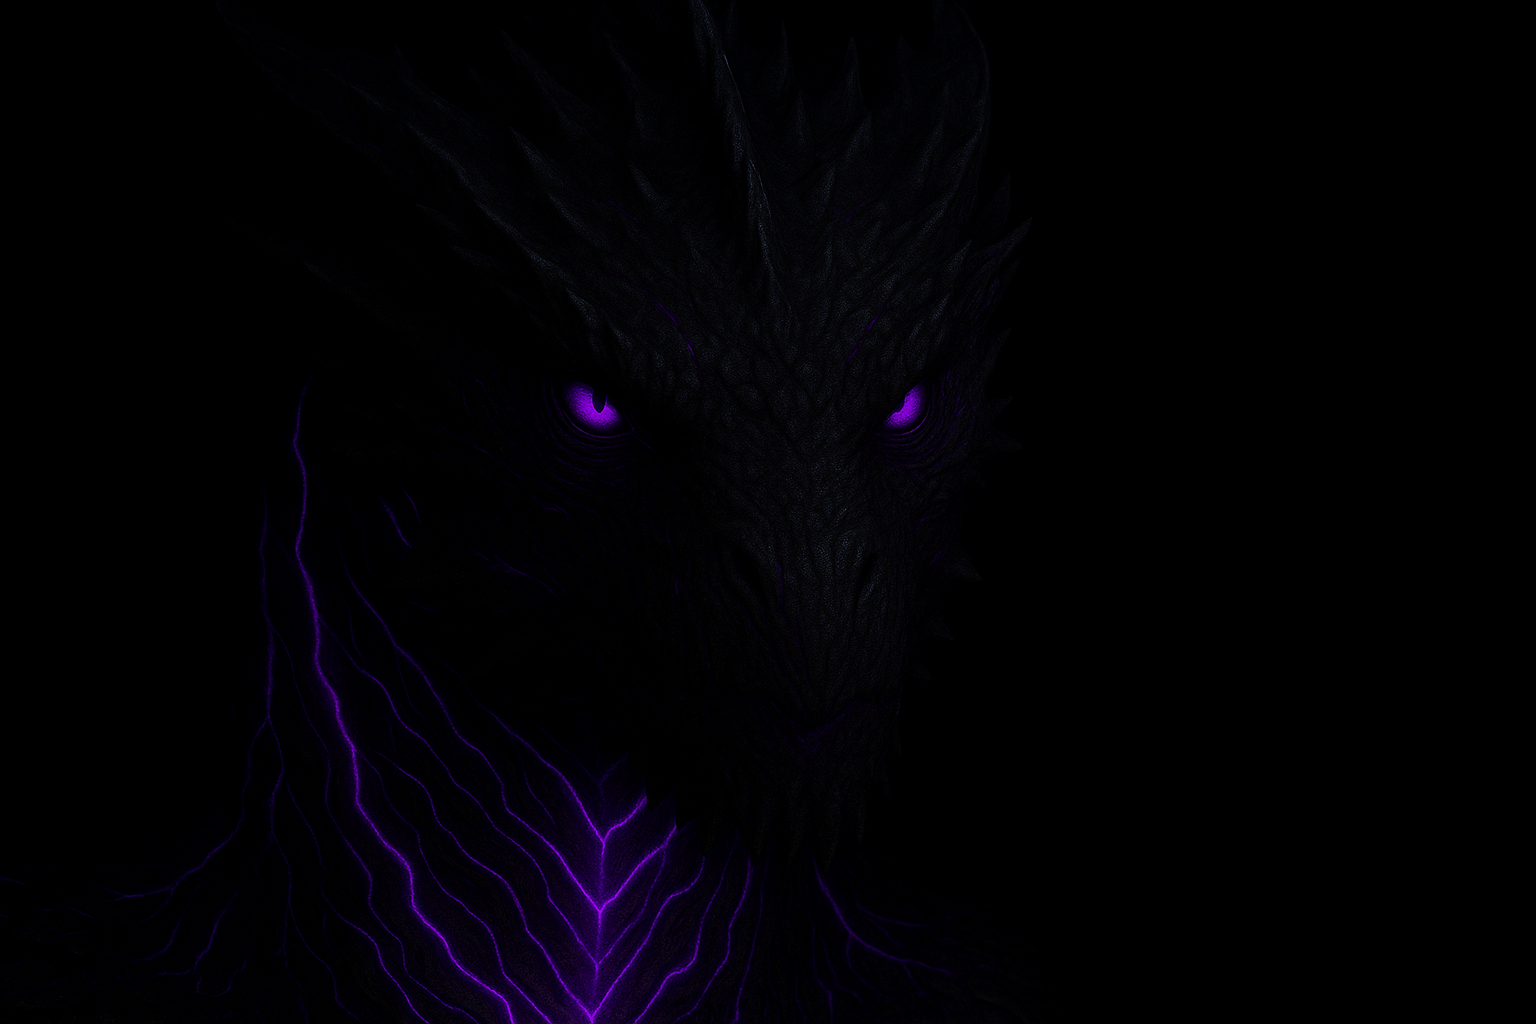
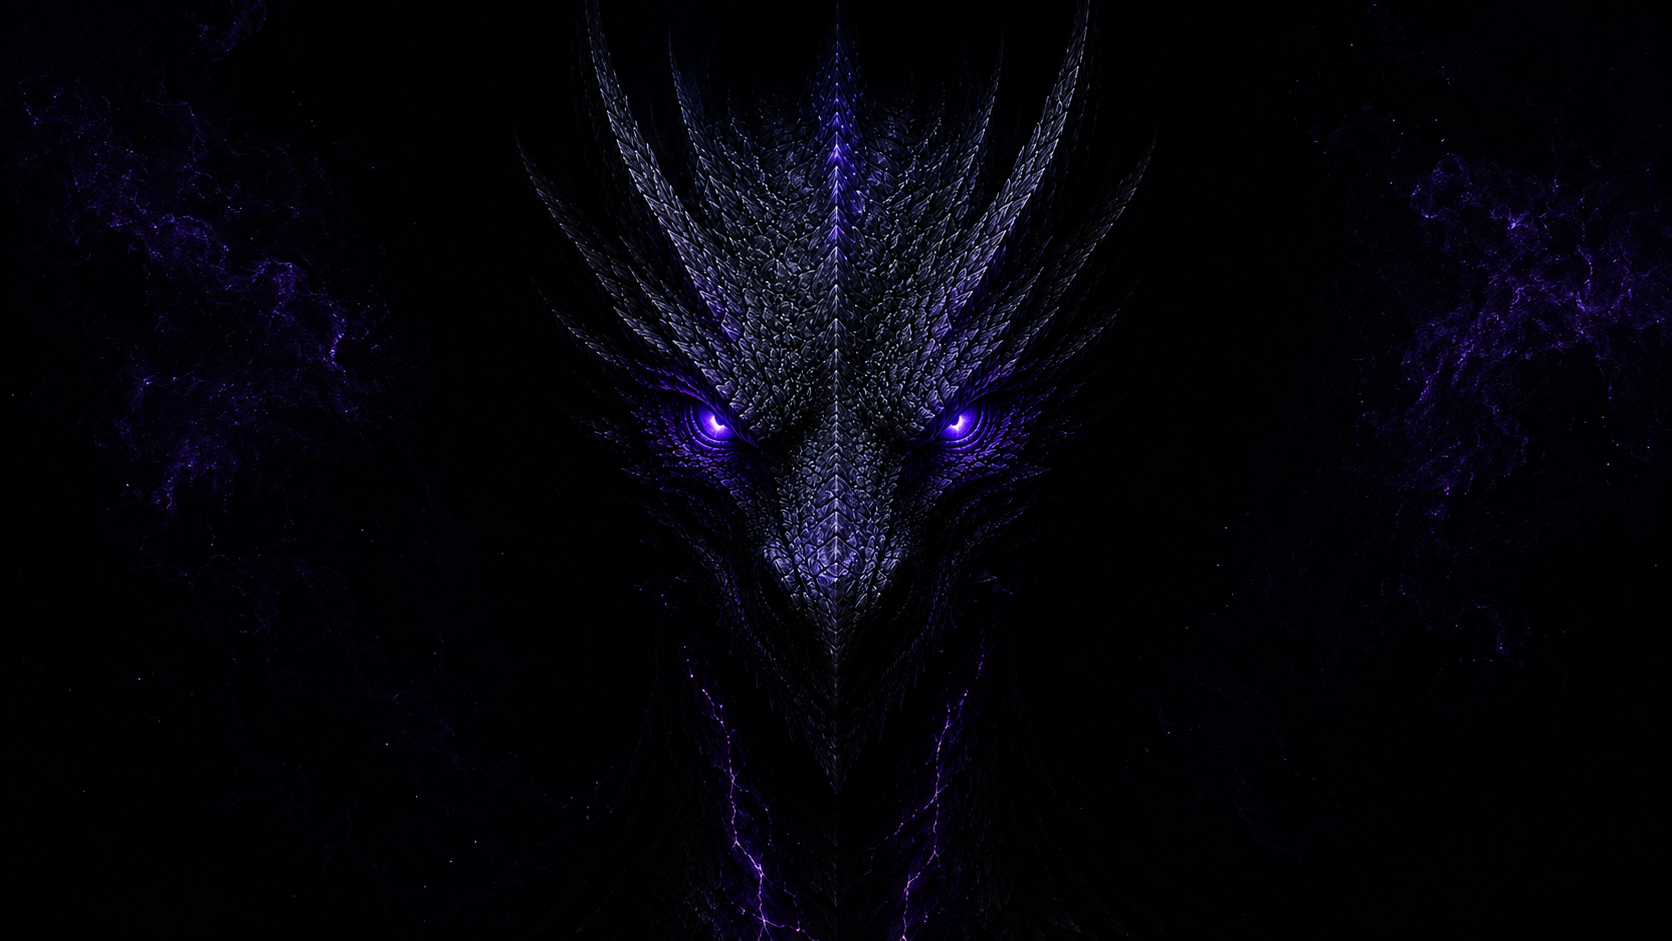
weh have a new dragon in house

diff --git a/waybar/dragon_style.css b/waybar/dragon_style.css
@@ -1,8 +1,9 @@
 * {
 	font-family: 'Jersey 15';
 	font-size: 20px;
-	color:rgba(124, 8, 194,1);
-	padding-left: 2px;
+/*	#color:rgba(124, 8, 194,1);  from the old dragon*/
+	color:rgba(90,31,207,1);
+    padding-left: 2px;
 }
 
 /* For the dragon  theme */

diff --git a/waybar/style.css b/waybar/style.css
@@ -1,1 +1,1 @@
-/home/usernorm/.config/waybar/leviathan_style.css
+/home/usernorm/.config/waybar/dragon_style.css
